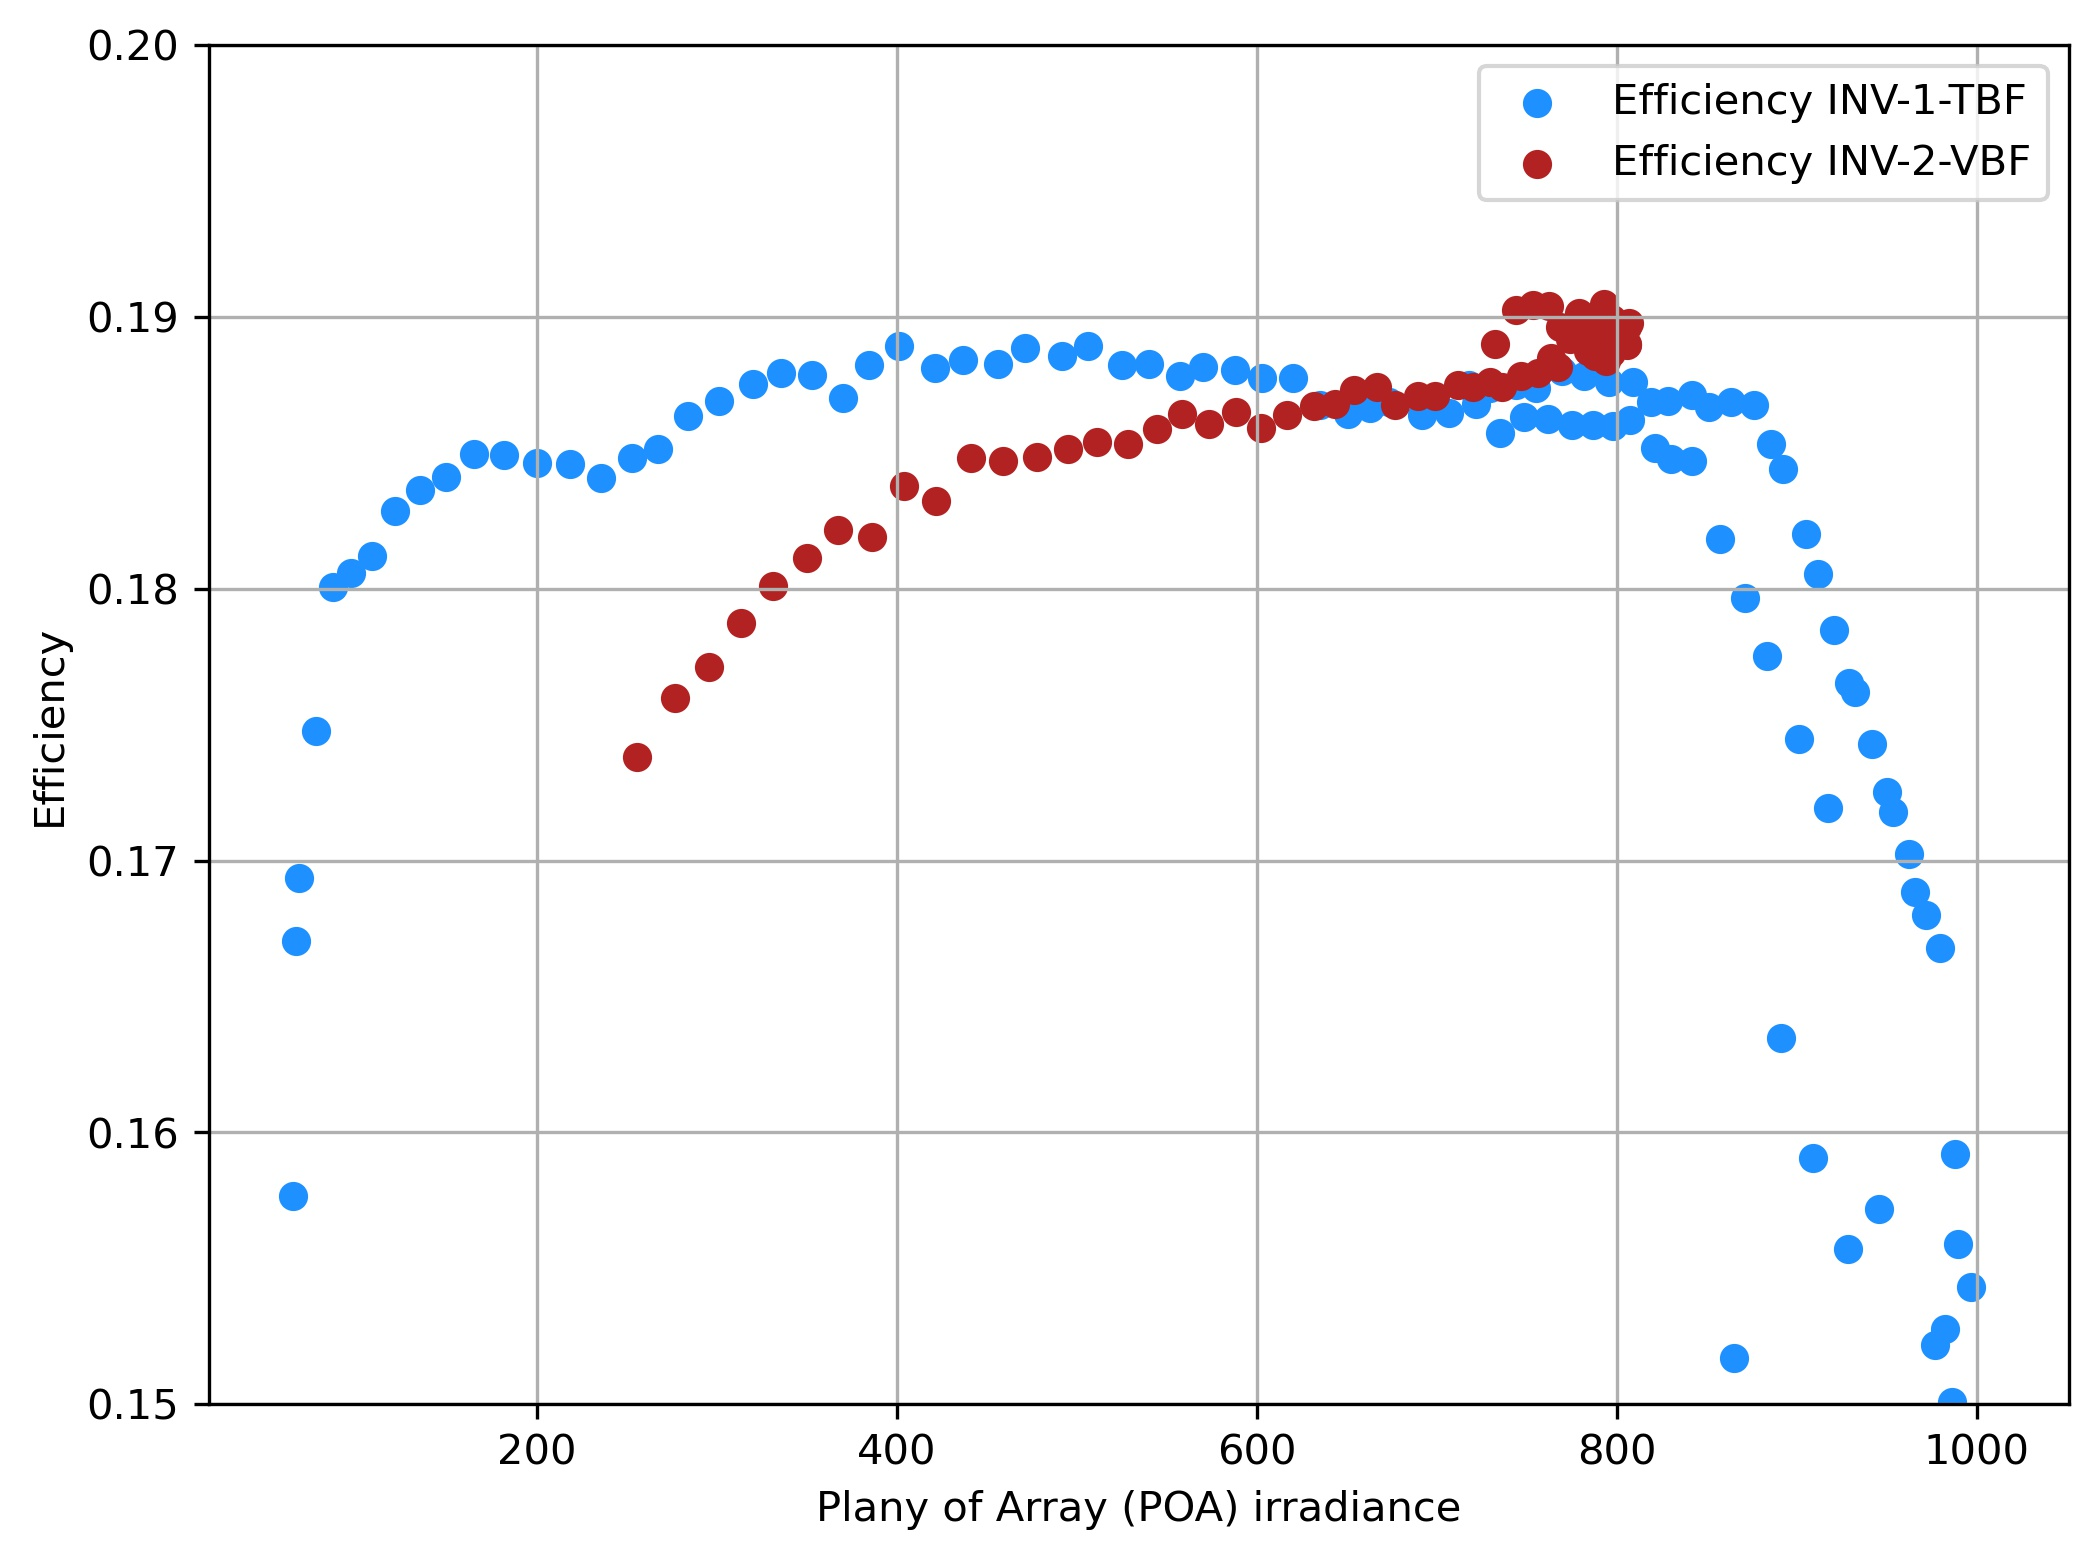
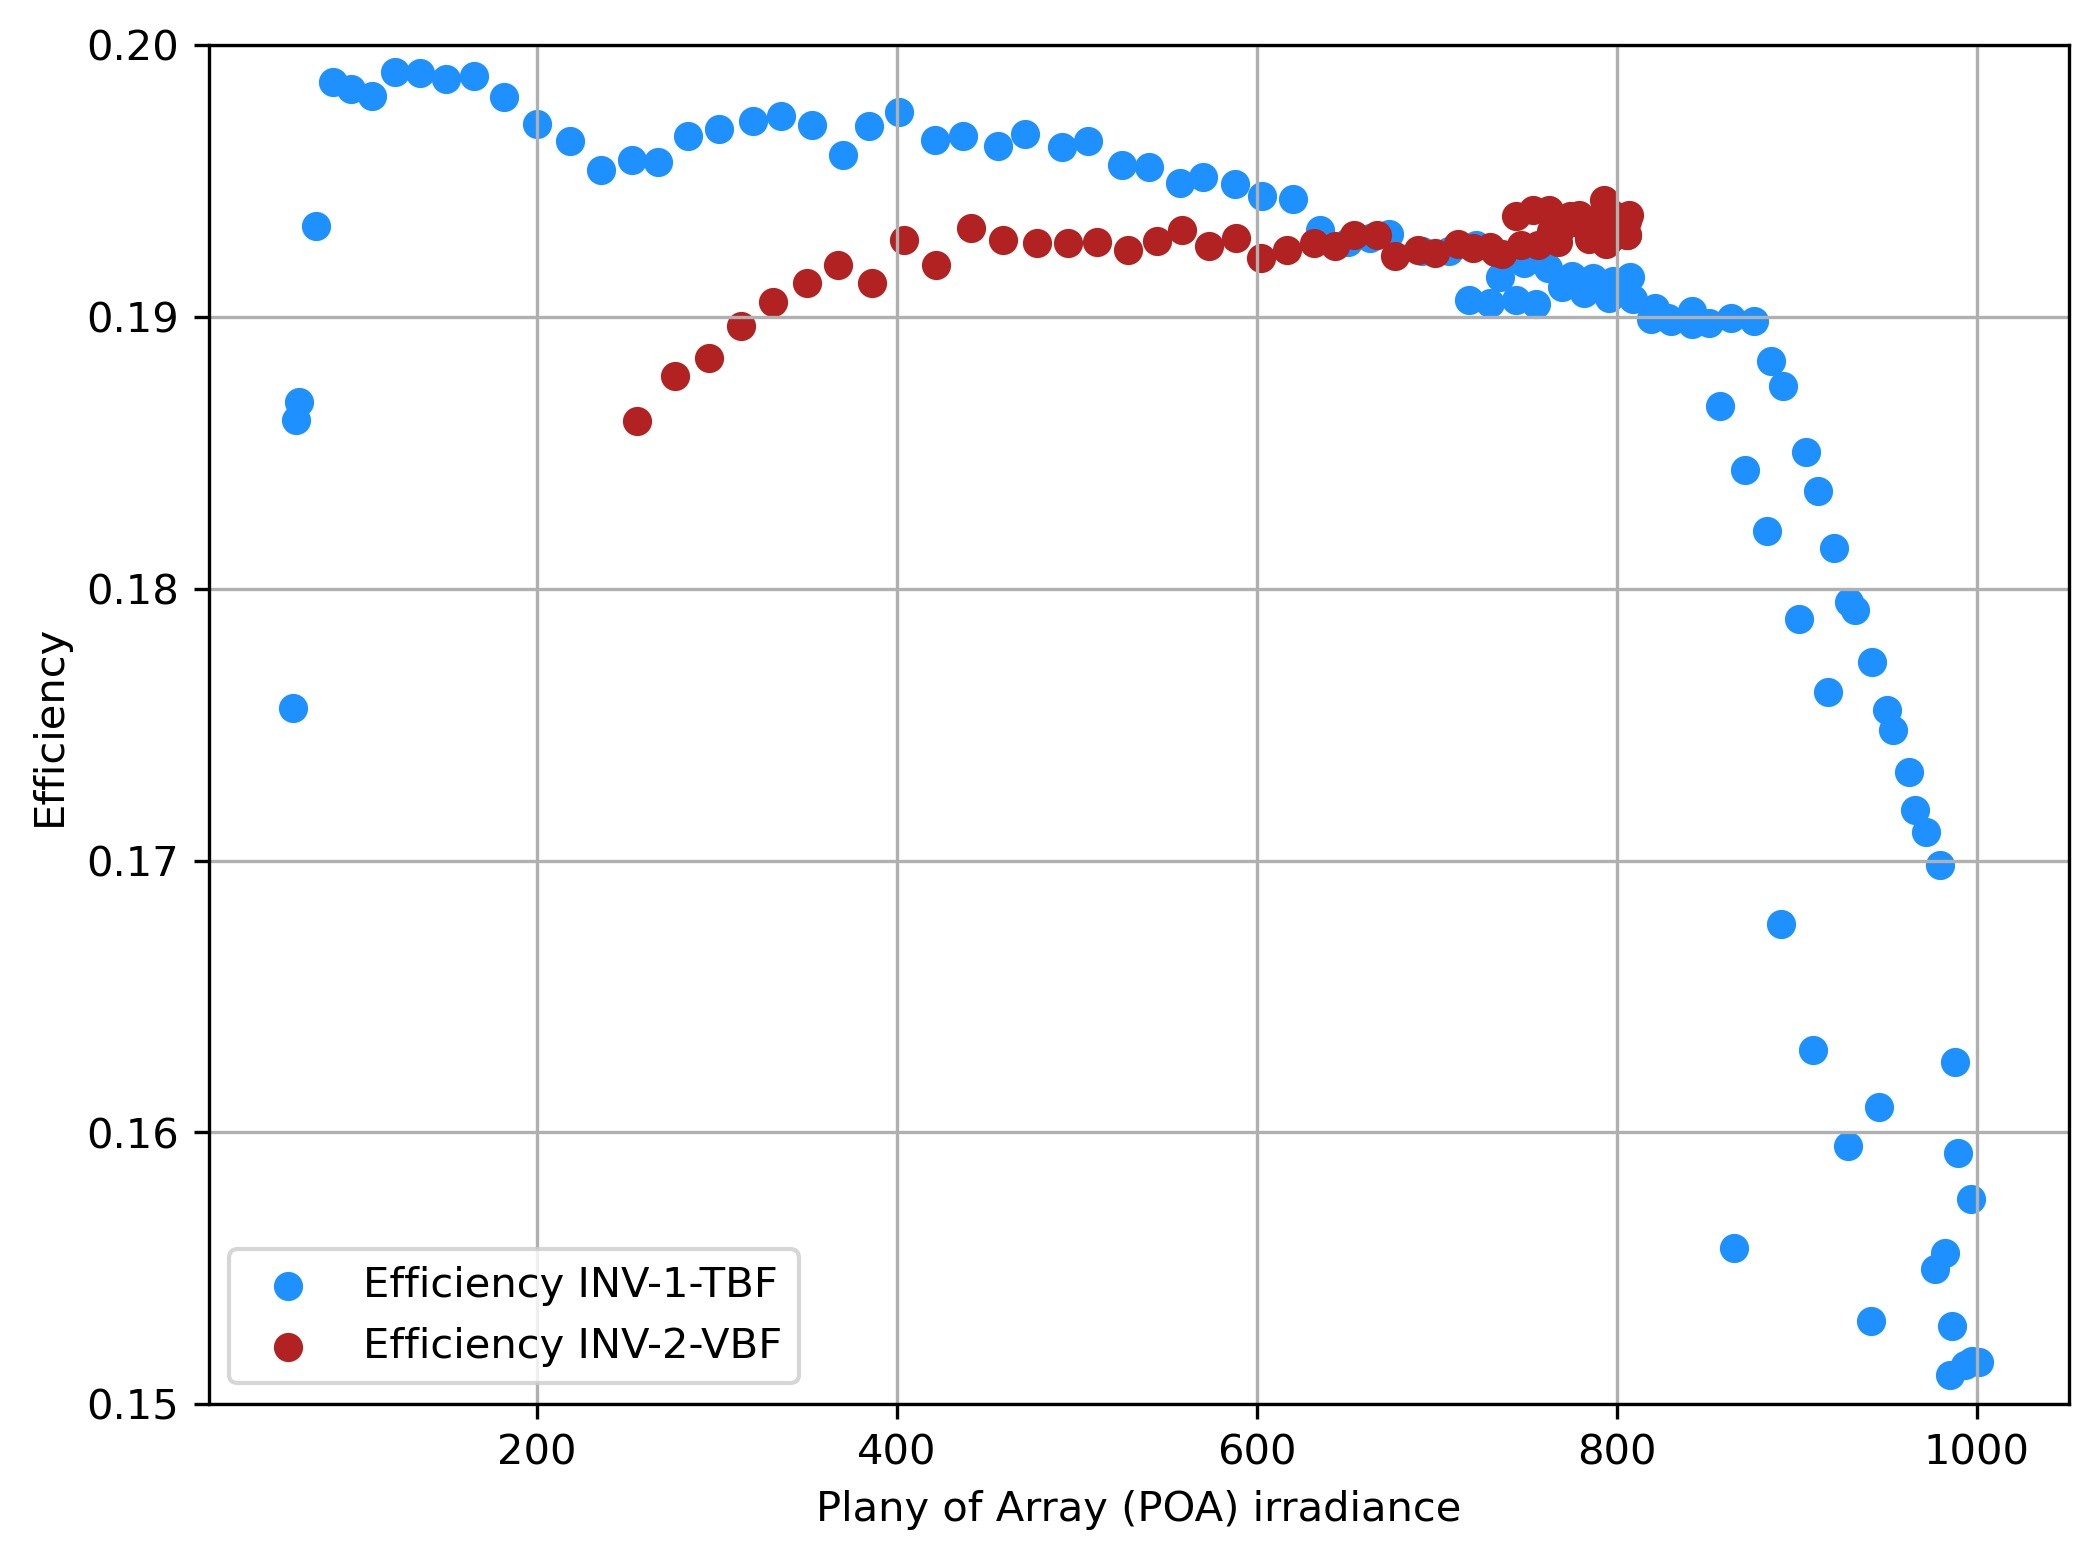
add bifaciality factor to efficiency calculation

diff --git a/efficiency_analysis.py b/efficiency_analysis.py
@@ -36,10 +36,11 @@ time_index_day_winter = pd.date_range(start=start_date3,
                            freq='5min',
                            tz=tz)
 area = 80*2.280*1.134 #80 PV panels per inverter
+bifaciality=0.8
 irradiance_tilted = (data['Reference Cell Tilted facing up (W.m-2)'] +
-                     data['Reference Cell Tilted facing down (W.m-2)'])
+                     bifaciality*data['Reference Cell Tilted facing down (W.m-2)'])
 
-irradiance_vertical = (data['Reference Cell Vertical East (W.m-2)']
+irradiance_vertical = (bifaciality*data['Reference Cell Vertical East (W.m-2)']
                        + data['Reference Cell Vertical West (W.m-2)'])
 
 #irradiance_vertical.index += pd.DateOffset(hours=1)
@@ -143,9 +144,9 @@ ax5.set_ylabel('DC Power (kW)')
 ax6.set_ylabel('DC Power (kW)') 
 ax7.set_ylabel('POA irradiance (W.m-2)') 
 ax8.set_ylabel('POA irradiance (W.m-2)')
-#%%
-plt.savefig('Figures/Efficiency_analysis.jpg', dpi=300, bbox_inches='tight')
 
+plt.savefig('Figures/Efficiency_analysis.jpg', dpi=300, bbox_inches='tight')
+#%%
 plt.figure(figsize=(8, 6))
 gs1 = gridspec.GridSpec(1, 1)
 ax0 = plt.subplot(gs1[0,0])
